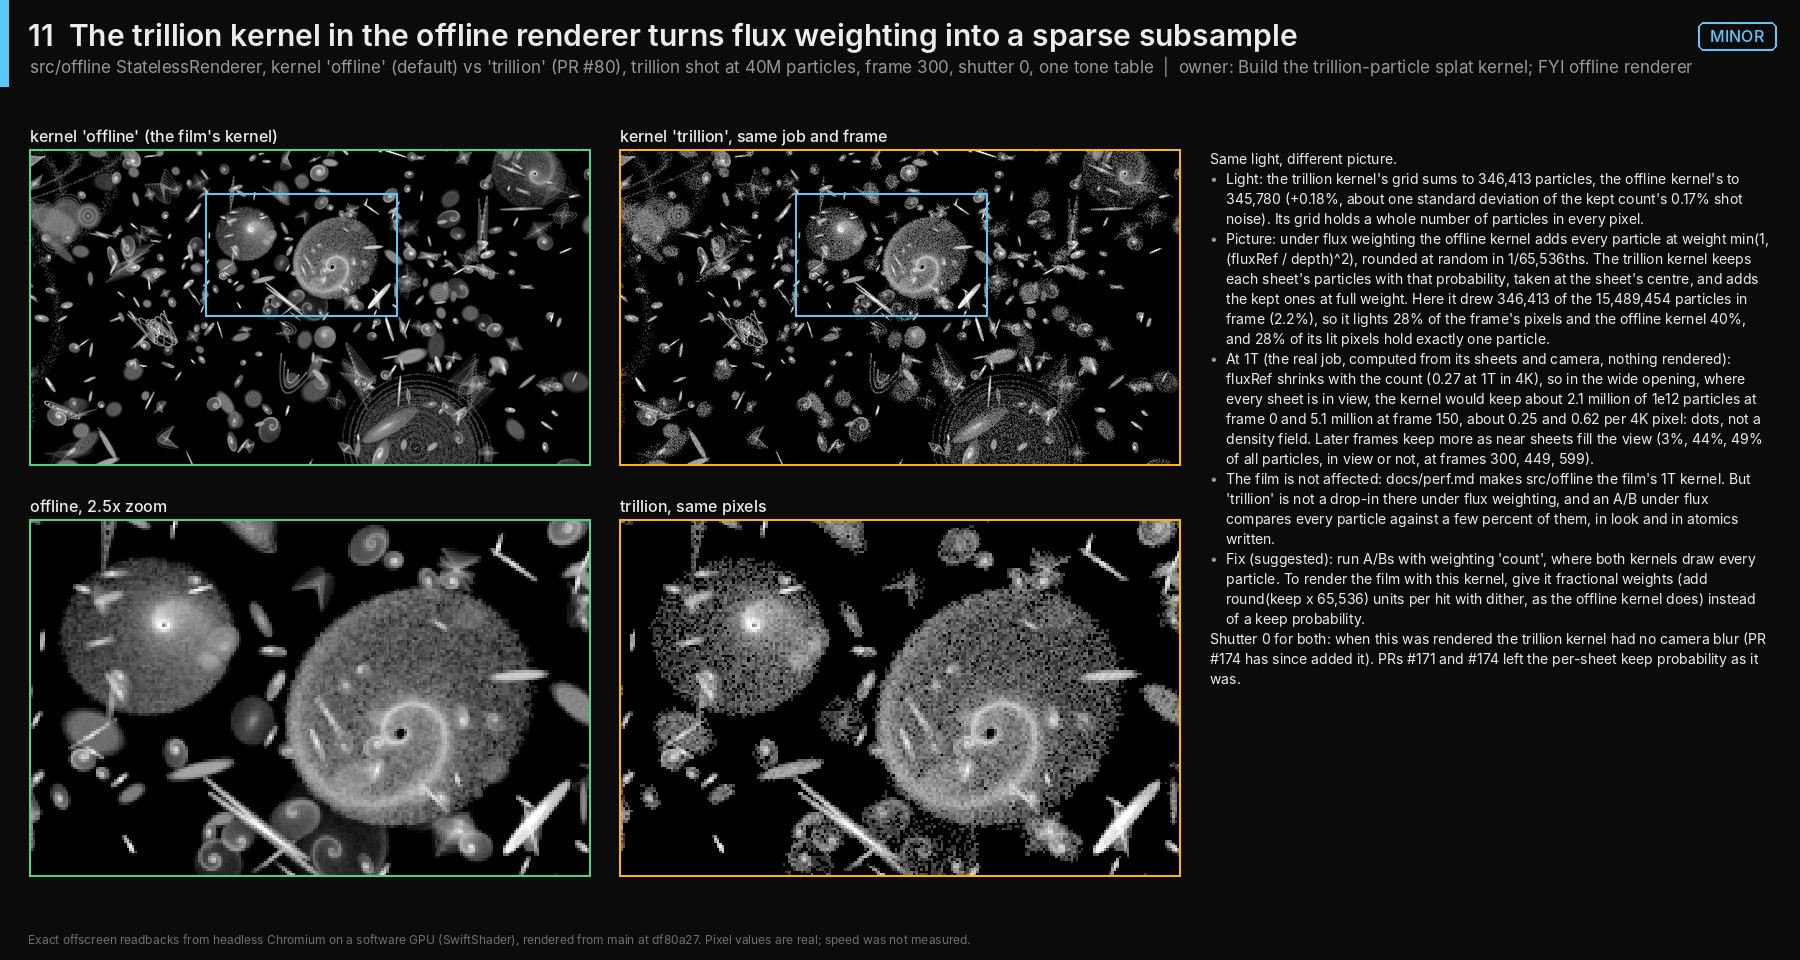
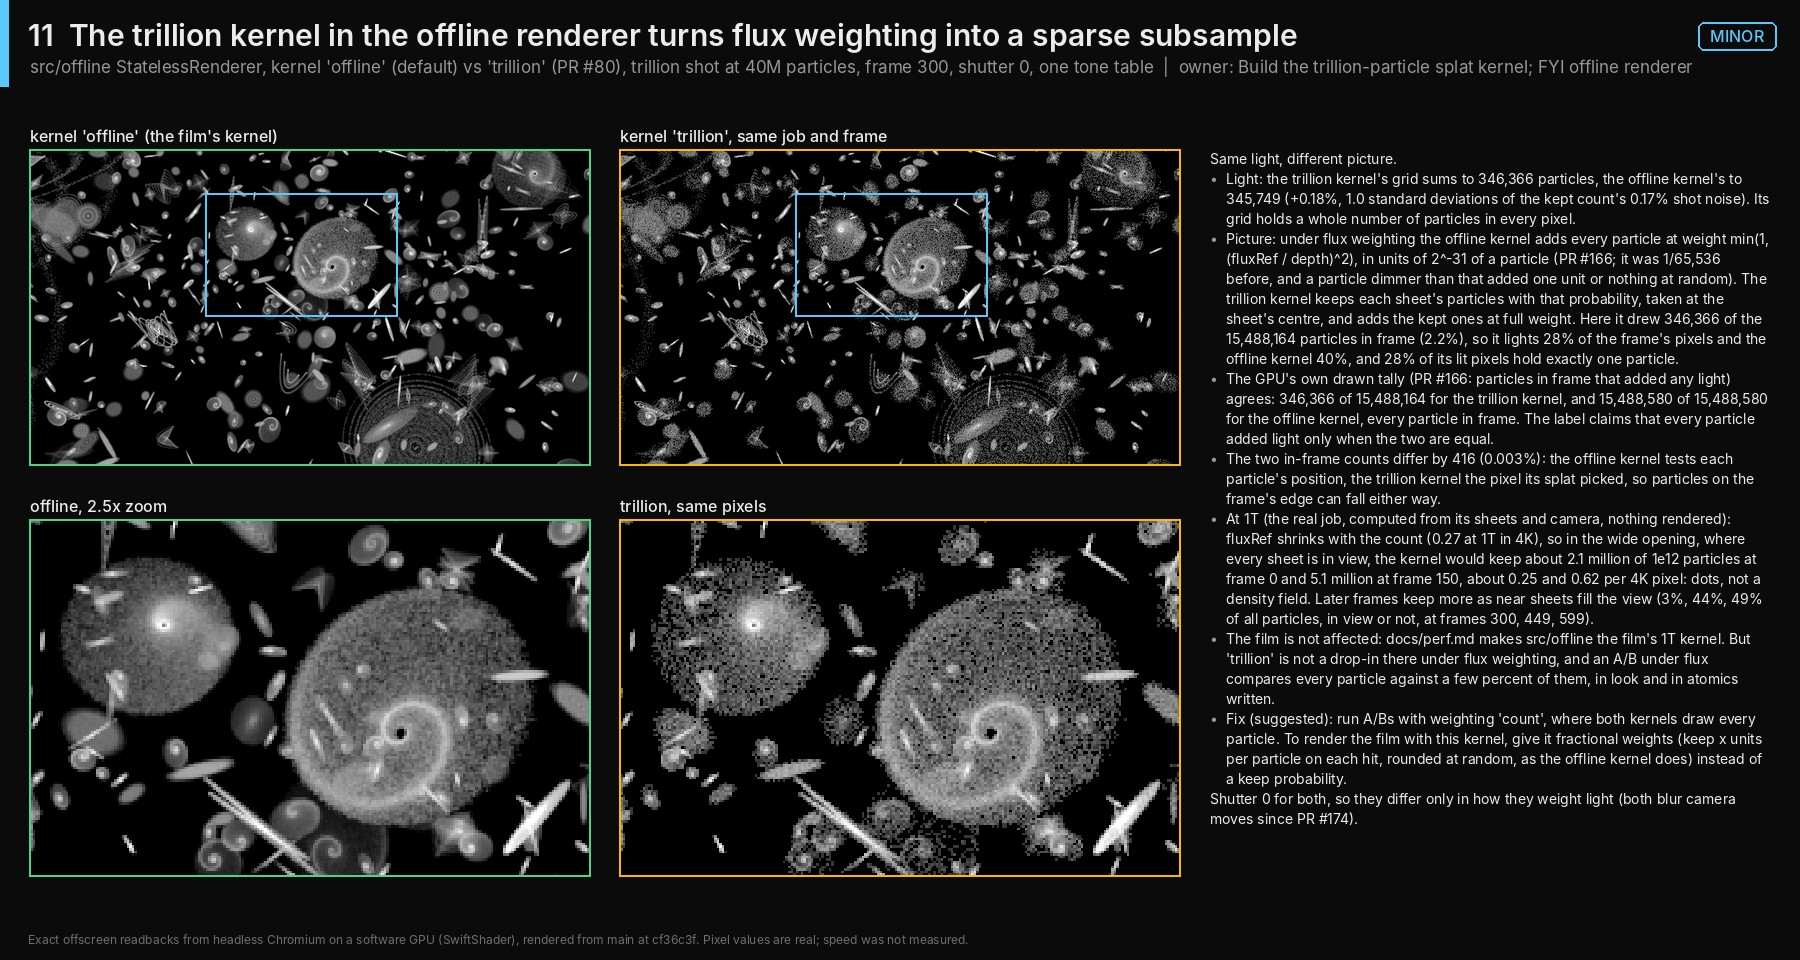
Figure 11 rendered again after finer flux weights (#166), with the GPU's drawn count
The offline kernel now draws every particle in frame (drawn equals landed),
the trillion kernel 2.2% of them, so the finding stands and the GPU's own
tally shows it. The figure divides each grid by its own units per particle,
and the harness records the last commit that changed src/, so its own commits
on a QA branch do not hide the main commit the frames come from.

Claude-Session: https://claude.ai/code/session_011cV2cxZn34awAVPitjSW8L

diff --git a/qa/challenge/page.ts b/qa/challenge/page.ts
@@ -559,9 +559,10 @@ const scenarios = {
   /**
    * One moment of the trillion shot through both kernels the offline renderer
    * offers: its own (the default) and src/trillion's (PR #80, the web UI's
-   * "kernel" menu). Shutter 0 by default, because the trillion kernel has no
-   * camera blur and the offline kernel does (PR #92), so with a shutter the two
-   * differ by blur alone. Both frames are graded with one tone table (the
+   * "kernel" menu). Shutter 0 by default, so the two differ only in how they
+   * weight light (both blur camera moves since PR #174, but a blur would hide
+   * the grain this compares). Flux weights are what clusterJob gives the job
+   * (fluxBits since PR #166). Both frames are graded with one tone table (the
    * offline kernel's own white point) and saved without the label.
    */
   async offlineKernels(o: { particles?: number; frame?: number; width?: number; height?: number; shutter?: number } = {}) {
@@ -590,10 +591,10 @@ const scenarios = {
           lut = toneTable(white, look);
         }
         const tag = `kernels-${kernel}-${short(particles)}`;
-        const meta = { scenario: 'offlineKernels', kernel, width: job.width, height: job.height, frame: f, shutter: job.shutter, white, ownWhite: own, stats };
+        const meta = { scenario: 'offlineKernels', kernel, width: job.width, height: job.height, frame: f, shutter: job.shutter, weighting: job.weighting, fluxBits: job.fluxBits ?? null, white, ownWhite: own, stats };
         await save(`${tag}.codes`, new Uint8Array(samples.buffer, samples.byteOffset, samples.byteLength), meta);
         await save(`${tag}.gray`, gradeFrame(samples, lut, f), meta);
-        out[kernel] = { landed: stats.landed, evaluated: stats.evaluated, evaluatedBy: stats.evaluatedBy ?? 'gpu', unitSum: stats.unitSum, ownWhite: own };
+        out[kernel] = { landed: stats.landed, drawn: stats.drawn ?? null, evaluated: stats.evaluated, evaluatedBy: stats.evaluatedBy ?? 'gpu', unitSum: stats.unitSum, unitsPerParticle: stats.unitsPerParticle ?? 65536, ownWhite: own };
         log(`saved ${tag}`);
       } finally {
         dev.destroy();

diff --git a/qa/challenge/annotate.py b/qa/challenge/annotate.py
@@ -908,12 +908,17 @@ def fig_kernels(out: str) -> None:
     so, st = mo["stats"], mt["stats"]
     go, gt = gray(names[0]), gray(names[1])
     co, ct = codes(names[0]), codes(names[1])
-    light_o, light_t = int(so["unitSum"]) / 65536, int(st["unitSum"]) / 65536
-    whole = int(st["unitSum"]) % 65536 == 0
+    # Grid units per particle: 65536 unless the stats say otherwise (finer flux weights since PR #166).
+    upp_o, upp_t = int(so.get("unitsPerParticle") or 65536), int(st.get("unitsPerParticle") or 65536)
+    light_o, light_t = int(so["unitSum"]) / upp_o, int(st["unitSum"]) / upp_t
+    whole = int(st["unitSum"]) % upp_t == 0
+    bits_o = round(math.log2(upp_o))
+    drawn_o, drawn_t = so.get("drawn"), st.get("drawn")
     pt = (2.0 ** (ct / 1024) - 1) / 65536
     lit_t = pt > 0.5
     one = float((np.round(pt[lit_t]) == 1).mean() * 100)
-    landed = int(so["landed"])
+    landed = landed_o = int(so["landed"])
+    landed_t = int(st["landed"])
     full = [r for r in flux_keep().get("rows", []) if r["particles"] >= 1e12]
     f = figure(1800, 960, 11, "The trillion kernel in the offline renderer turns flux weighting into a sparse subsample",
                f"src/offline StatelessRenderer, kernel 'offline' (default) vs 'trillion' (PR #80), trillion shot at 40M particles, frame {mo['frame']}, shutter 0, one tone table  |  owner: Build the trillion-particle splat kernel; FYI offline renderer",
@@ -928,9 +933,13 @@ def fig_kernels(out: str) -> None:
         f.draw.rectangle([x + crop[1].start * s, 150 + crop[0].start * s, x + crop[1].stop * s, 150 + crop[0].stop * s], outline=CYAN, width=2)
     lines = [
         "Same light, different picture.",
-        f"- Light: the trillion kernel's grid sums to {light_t:,.0f} particles, the offline kernel's to {light_o:,.0f} ({(light_t / light_o - 1) * 100:+.2f}%, about one standard deviation of the kept count's {100 / math.sqrt(light_t):.2f}% shot noise). Its grid holds a whole number of particles in every pixel{'' if whole else ' (NOT a whole number: check)'}.",
-        f"- Picture: under flux weighting the offline kernel adds every particle at weight min(1, (fluxRef / depth)^2), rounded at random in 1/65,536ths. The trillion kernel keeps each sheet's particles with that probability, taken at the sheet's centre, and adds the kept ones at full weight. Here it drew {light_t:,.0f} of the {landed:,} particles in frame ({light_t / landed * 100:.1f}%), so it lights {(ct > 0).mean() * 100:.0f}% of the frame's pixels and the offline kernel {(co > 0).mean() * 100:.0f}%, and {one:.0f}% of its lit pixels hold exactly one particle.",
+        f"- Light: the trillion kernel's grid sums to {light_t:,.0f} particles, the offline kernel's to {light_o:,.0f} ({(light_t / light_o - 1) * 100:+.2f}%, {abs(light_t / light_o - 1) * math.sqrt(light_t):.1f} standard deviations of the kept count's {100 / math.sqrt(light_t):.2f}% shot noise). Its grid holds a whole number of particles in every pixel{'' if whole else ' (NOT a whole number: check)'}.",
+        f"- Picture: under flux weighting the offline kernel adds every particle at weight min(1, (fluxRef / depth)^2), " + (f"in units of 2^-{bits_o} of a particle (PR #166; it was 1/65,536 before, and a particle dimmer than that added one unit or nothing at random)." if bits_o > 16 else "rounded at random in 1/65,536ths.") + f" The trillion kernel keeps each sheet's particles with that probability, taken at the sheet's centre, and adds the kept ones at full weight. Here it drew {light_t:,.0f} of the {landed_t:,} particles in frame ({light_t / landed_t * 100:.1f}%), so it lights {(ct > 0).mean() * 100:.0f}% of the frame's pixels and the offline kernel {(co > 0).mean() * 100:.0f}%, and {one:.0f}% of its lit pixels hold exactly one particle.",
     ]
+    if drawn_o is not None and drawn_t is not None:
+        lines.append(f"- The GPU's own drawn tally (PR #166: particles in frame that added any light) agrees: {int(drawn_t):,} of {landed_t:,} for the trillion kernel{'' if int(drawn_t) == round(light_t) else ' (not its light sum: check)'}, and {int(drawn_o):,} of {landed_o:,} for the offline kernel{', every particle in frame' if int(drawn_o) == landed_o else ''}. The label claims that every particle added light only when the two are equal.")
+        if landed_o != landed_t:
+            lines.append(f"- The two in-frame counts differ by {abs(landed_o - landed_t):,} ({abs(landed_o - landed_t) / landed_o * 100:.3f}%): the offline kernel tests each particle's position, the trillion kernel the pixel its splat picked, so particles on the frame's edge can fall either way.")
     if full:
         r0 = next(r for r in full if r["frame"] == 0)
         r150 = next((r for r in full if r["frame"] == 150), r0)
@@ -939,8 +948,8 @@ def fig_kernels(out: str) -> None:
         lines.append(f"- At 1T (the real job, computed from its sheets and camera, nothing rendered): fluxRef shrinks with the count ({r0['fluxRef']:.2f} at 1T in 4K), so in the wide opening, where every sheet is in view, the kernel would keep about {r0['kept'] / 1e6:.1f} million of 1e12 particles at frame 0 and {r150['kept'] / 1e6:.1f} million at frame 150, about {r0['kept'] / px:.2f} and {r150['kept'] / px:.2f} per 4K pixel: dots, not a density field. Later frames keep more as near sheets fill the view (" + ", ".join(f"{r['share'] * 100:.0f}%" for r in later) + " of all particles, in view or not, at frames " + ", ".join(str(r["frame"]) for r in later) + ").")
     lines += [
         "- The film is not affected: docs/perf.md makes src/offline the film's 1T kernel. But 'trillion' is not a drop-in there under flux weighting, and an A/B under flux compares every particle against a few percent of them, in look and in atomics written.",
-        "- Fix (suggested): run A/Bs with weighting 'count', where both kernels draw every particle. To render the film with this kernel, give it fractional weights (add round(keep x 65,536) units per hit with dither, as the offline kernel does) instead of a keep probability.",
-        "Shutter 0 for both: when this was rendered the trillion kernel had no camera blur (PR #174 has since added it). PRs #171 and #174 left the per-sheet keep probability as it was.",
+        "- Fix (suggested): run A/Bs with weighting 'count', where both kernels draw every particle. To render the film with this kernel, give it fractional weights (keep x units per particle on each hit, rounded at random, as the offline kernel does) instead of a keep probability.",
+        ("Shutter 0 for both, so they differ only in how they weight light (both blur camera moves since PR #174)." if bits_o > 16 else "Shutter 0 for both: when this was rendered the trillion kernel had no camera blur (PR #174 has since added it). PRs #171 and #174 left the per-sheet keep probability as it was."),
     ]
     text_block(f, 1210, 150, lines, 560, font_=F_SMALL)
     save(f, out, "11-trillion-kernel-flux.jpg")

diff --git a/docs/qa/challenge/README.md b/docs/qa/challenge/README.md
@@ -24,15 +24,15 @@ at or below 400M particles per frame.
 | [08](08-tone-ramps.jpg) | No banding on smooth density ramps with dither on; the dither adds no bias | ok | Render density beyond screen resolution (FYI) | checked |
 | [09](09-trillion-kernel.jpg) | Trillion kernel: counter sums equal the landed tally, the self test passes, the stochastic splat is unbiased | ok | Build the trillion-particle splat kernel | checked; tile path not exercised |
 | [10](10-short-jobs-smear.jpg) | Since camera blur (PR #92), a short offline job smears the whole camera move | minor | Render offline record-scale particle video | open |
-| [11](11-trillion-kernel-flux.jpg) | In the offline renderer, kernel 'trillion' turns flux weighting into a subsample: same light, but a few percent of the particles at full weight (about 2 million of 1e12 in the 1T opening) | minor | Build the trillion-particle splat kernel; FYI offline renderer | open; the film uses kernel 'offline' |
+| [11](11-trillion-kernel-flux.jpg) | In the offline renderer, kernel 'trillion' turns flux weighting into a subsample: same light, but only a few percent of the particles in frame add it, at full weight (2.2% in the test frame by the GPU's own drawn count; about 2 million of 1e12 in the 1T opening) | minor | Build the trillion-particle splat kernel; FYI offline renderer | open; the film uses kernel 'offline' |
 
 ## Which code each image saw
 
 Main moves fast, so each figure's footer names the commit it was rendered
-from. Unless noted, that is `df80a27` (the "before" captures in 02 and 04 are
-from `c42ceda`, and the real 1T frames in 05 are the RTX 2070 stills in
-`docs/record/`). Changes merged after `df80a27` that touch what a finding
-looked at, up to `8bb79e9`:
+from. Unless noted, that is `df80a27` (11 is from `cf36c3f`, the "before"
+captures in 02 and 04 are from `c42ceda`, and the real 1T frames in 05 are the
+RTX 2070 stills in `docs/record/`). Changes merged after `df80a27` that touch
+what a finding looked at, up to `8827aad`:
 
 - **01, 08** (`src/render`): none.
 - **02, 03** (`src/capture`): PR #144 adds an audio track to recordings and PR
@@ -42,9 +42,16 @@ looked at, up to `8bb79e9`:
   before the Feistel rounds and gives `tri()` 24-bit resolution, so every
   particle moved (statistically the same). It also removed about 20.6M twin
   trajectories from the 1T preset, which a spectrum cannot see: 05's "no
-  repetition" is about lattices and tiling, not duplicate particles. PR #149
+  repetition" is about lattices and tiling, not duplicate particles
+  (`docs/record` now gives the share of distinct paths, PR #187). PR #149
   adds new laws and presets and takes the trillion kernel's evaluated count
-  from the GPU.
+  from the GPU. PR #166 makes flux weights as fine as the grid allows (2^-31
+  of a particle up to 4 billion particles, 2^-23 at 1T; they were 1/65,536,
+  and a dimmer particle added one unit or nothing at random) and has the GPU
+  count the particles that added light. 05's lattice and void checks do not
+  depend on the weights; how faint far sheets look does (05, and 03's line on
+  the 1T shot's dust), and was not checked again. The label's wording changed with it (it says whether every particle
+  in frame added light), not how it is drawn, so 04 stands.
 - **06** (`src/challenge`): PR #139 dropped the 1/2.2 power after the log curve
   (brief V02), so Challenge renders darker. 06 was rendered again at `1820b1d`,
   after it, and compares the two (07's Challenge panel is from `1820b1d` too).
@@ -54,8 +61,9 @@ looked at, up to `8bb79e9`:
   on very wide frames. PRs #171 and #174 add camera blur to the trillion kernel,
   keep its salt constant across frames (09's per-frame grain no longer
   changes), and add a `trillion-strata` kernel choice, which none of these
-  figures ran. The per-sheet keep probability behind 11 is unchanged at
-  `8bb79e9`.
+  figures ran. 11 was rendered again at `cf36c3f`, after them and after PR
+  #166: the per-sheet keep probability is unchanged, and the new drawn count
+  shows it.
 
 ## Related briefs
 

diff --git a/qa/challenge/README.md b/qa/challenge/README.md
@@ -28,8 +28,8 @@ npx tsc -p qa/challenge/tsconfig.json        # type-check page.ts against src/
 not reload the page), opens `index.html`, and calls `window.qa.run(name, opts)`
 per scenario. A failing scenario is logged and recorded in `results.json`; the
 others still run. Each output folder gets an `info.json` with the adapter, the
-`main` commit and whether `src/` had local changes, and `annotate.py` prints
-that commit in every figure's footer.
+last commit that changed `src/` and whether `src/` had local changes, and
+`annotate.py` prints that commit in every figure's footer.
 
 `annotate.py` needs Python 3 with numpy and Pillow, plus ffmpeg and ffprobe for
 the MP4 figure. With several `--in` folders the first one holding a file wins,
